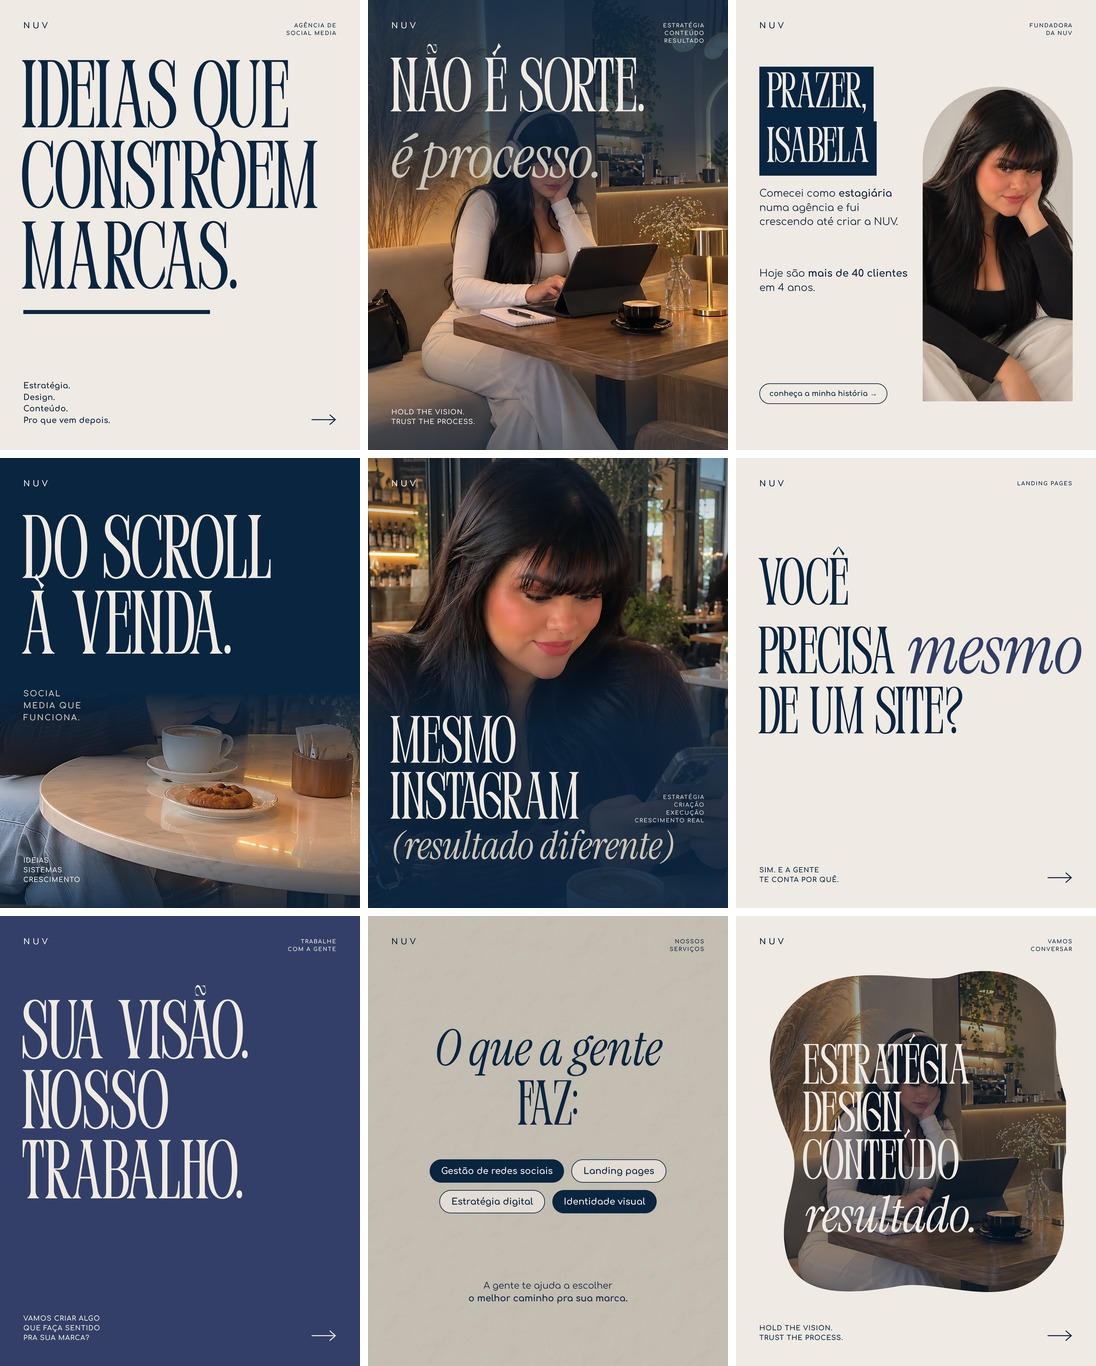
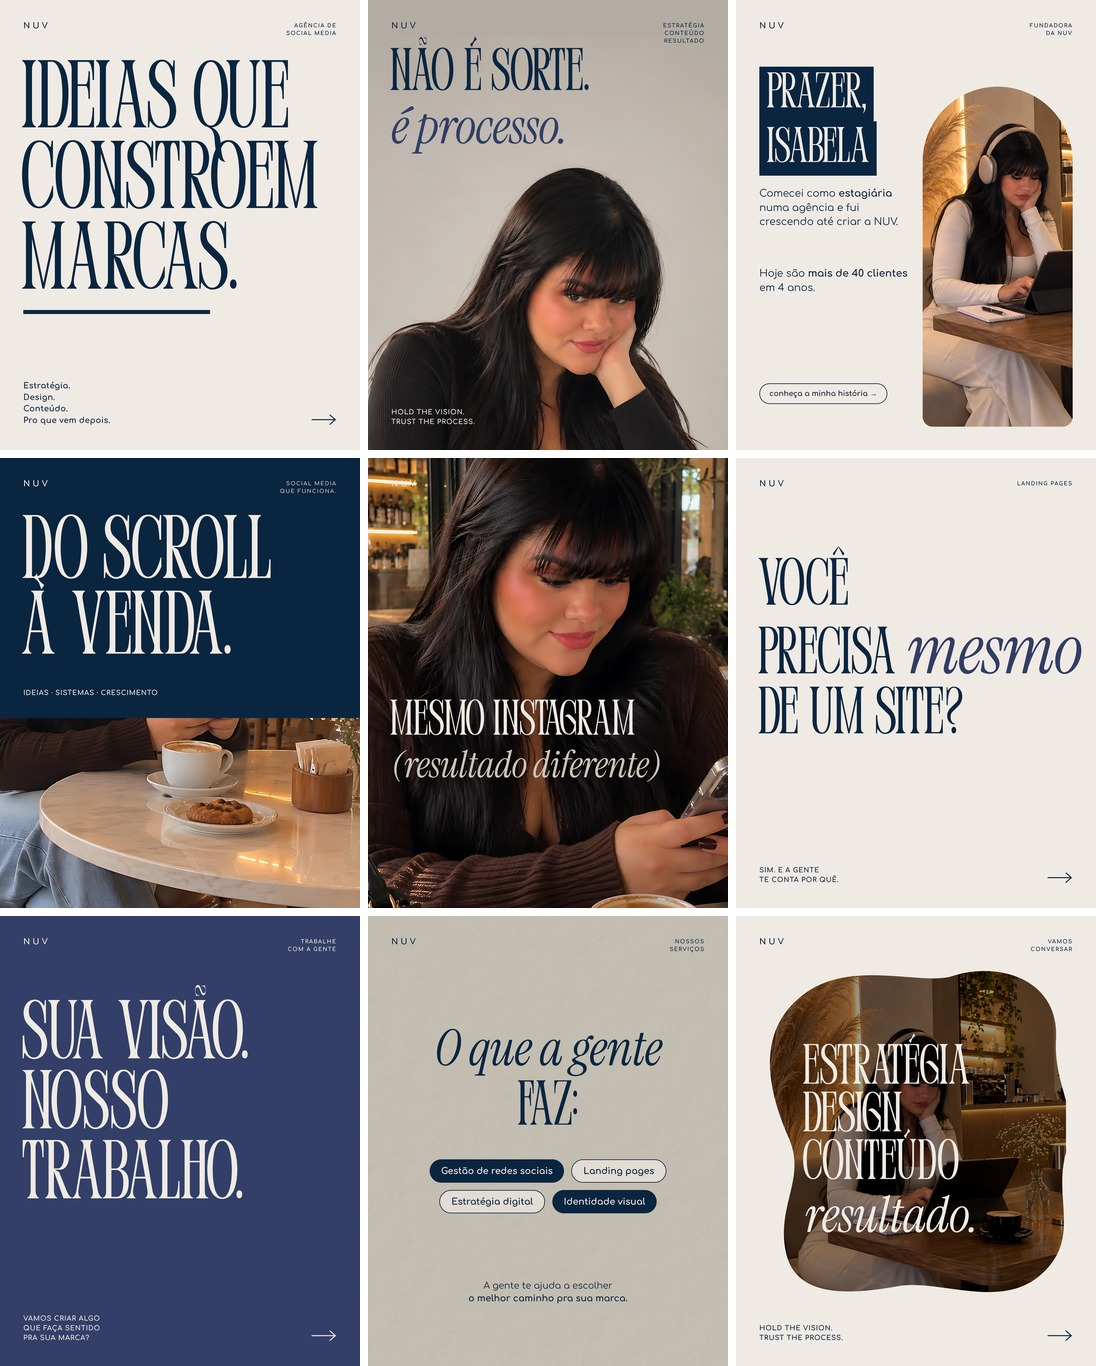
Feed kit: remove blue gradient overlays, place text on clean photo areas
Claude-Session: https://claude.ai/code/session_01EMPiZm8vwXxfPYZ7GnxN3Y

Changed region(s): [[0.0, 0.0, 0.6825, 0.6764], [0.6825, 0.7072, 0.9927, 0.9531], [0.8376, 0.0615, 0.9927, 0.3382]]

diff --git a/nuv-kit-feed/index.html b/nuv-kit-feed/index.html
@@ -58,7 +58,6 @@ const crop = (key, sx, sy, sw, w, h, extra = '') => {
   return `<div class="ph" style="left:0;top:0;width:${w}px;height:${h}px;background-image:url(${src});background-size:${iw * k}px auto;background-position:${-sx * k}px ${-sy * k}px;${extra}"></div>`;
 };
 const box = (x, y, w, h, inner, extra = '') => `<div class="abs" style="left:${x}px;top:${y}px;width:${w}px;height:${h}px;overflow:hidden;${extra}">${inner}</div>`;
-const grad = g => `<div class="fade" style="top:0;bottom:0;background:linear-gradient(180deg,${g})"></div>`;
 const GRAIN = o => `<svg class="abs" style="left:0;top:0;opacity:${o};mix-blend-mode:overlay;pointer-events:none" width="1080" height="1350"><rect width="100%" height="100%" filter="url(#grain)"/></svg>`;
 const ARROW = c => `<svg class="arrow" width="76" height="34" viewBox="0 0 76 34"><path d="M2 17h70M56 3l16 14-16 14" fill="none" stroke="${c}" stroke-width="3" stroke-linecap="round" stroke-linejoin="round"/></svg>`;
 const BRAND = c => `<div class="brand" style="color:${c}">NUV</div>`;
@@ -73,17 +72,17 @@ const POSTS = {
     <div class="abs" style="left:70px;top:930px;width:560px;height:12px;background:${C.navy}"></div>
     ${FOOT('Estratégia.<br>Design.<br>Conteúdo.<br>Pro que vem depois.', C.navy, 'text-transform:none;letter-spacing:.02em;font-size:24px')}${ARROW(C.navy)}`,
 
-  // 2 · foto quente + frase grande em branco
-  '02_nao_e_sorte_e_processo': `${box(0, 0, 1080, 1350, crop('tablet', 0, 0, 1122, 1080, 1350))}
-    ${grad('rgba(10,37,64,.88) 0%,rgba(10,37,64,.7) 30%,rgba(10,37,64,.05) 52%,rgba(10,37,64,0) 70%,rgba(10,37,64,.55) 100%')}
-    ${GRAIN(.18)}${BRAND(C.off)}${LAB('estratégia<br>conteúdo<br>resultado', C.off)}
-    <div class="abs H" style="left:66px;top:180px;font-size:230px;color:${C.off}">Não é sorte.</div>
-    <div class="abs I" style="left:70px;top:390px;font-size:180px;color:${C.beige}">é processo.</div>
+  // 2 · retrato no estúdio: texto azul direto na parede lisa (sem sombra/degradê)
+  '02_nao_e_sorte_e_processo': `<div class="abs" style="left:0;top:0;width:1080px;height:1350px;background:#b1aaa1"></div>
+    ${box(0, 110, 1080, 1240, crop('retrato', 0, 0, 941, 1080, 1240))}
+    ${GRAIN(.12)}${BRAND(C.navy)}${LAB('estratégia<br>conteúdo<br>resultado', C.navy)}
+    <div class="abs H" style="left:66px;top:150px;font-size:180px;color:${C.navy}">Não é sorte.</div>
+    <div class="abs I" style="left:70px;top:312px;font-size:150px;color:${C.indigo}">é processo.</div>
     ${FOOT('Hold the vision.<br>Trust the process.', C.off)}`,
 
   // 3 · "Prazer, Isabela" (blocos de marca-texto + retrato)
   '03_prazer_isabela': `<div class="abs" style="left:0;top:0;width:1080px;height:1350px;background:${C.off}"></div>
-    ${box(560, 260, 450, 1020, crop('retrato', 190, 330, 640, 450, 1020), 'border-radius:225px 225px 30px 30px')}
+    ${box(560, 260, 450, 1020, crop('tablet', 230, 200, 520, 450, 1020), 'border-radius:225px 225px 30px 30px')}
     ${BRAND(C.navy)}${LAB('fundadora<br>da nuv', C.navy)}
     <div class="abs H" style="left:70px;top:200px;font-size:150px;line-height:1.05"><span class="mk">Prazer,</span><br><span class="mk">Isabela</span></div>
     <div class="abs p" style="left:70px;top:560px;width:450px">Comecei como <b>estagiária</b> numa agência e fui crescendo até criar a NUV.</div>
@@ -92,21 +91,17 @@ const POSTS = {
 
   // 4 · azul sólido + foto entrando por baixo
   '04_do_scroll_a_venda': `<div class="abs" style="left:0;top:0;width:1080px;height:1350px;background:${C.navy}"></div>
-    ${box(0, 700, 1080, 650, crop('cafe', 300, 880, 641, 1080, 650))}
-    <div class="fade" style="top:700px;height:300px;background:linear-gradient(180deg,#0A2540,rgba(10,37,64,0))"></div>
-    <div class="fade" style="top:1150px;bottom:0;background:linear-gradient(180deg,rgba(10,37,64,0),rgba(10,37,64,.8))"></div>
+    ${box(0, 780, 1080, 570, crop('cafe', 300, 900, 641, 1080, 570))}
     ${BRAND(C.off)}
     <div class="abs H" style="left:66px;top:180px;font-size:270px;color:${C.off}">Do scroll<br>à venda.</div>
-    <div class="abs" style="left:70px;top:690px;color:${C.beige};font-weight:700;font-size:24px;letter-spacing:.12em;line-height:1.5;text-transform:uppercase">social<br>media que<br>funciona.</div>
-    ${FOOT('ideias<br>sistemas<br>crescimento', C.off)}`,
+    ${LAB('social media<br>que funciona.', C.beige)}
+    <div class="abs" style="left:70px;top:690px;color:${C.off};font-weight:700;font-size:20px;letter-spacing:.06em;line-height:1.45;text-transform:uppercase">ideias · sistemas · crescimento</div>`,
 
-  // 5 · retrato/close + manchete com parênteses em itálico
-  '05_mesmo_instagram_resultado_diferente': `${box(0, 0, 1080, 1350, crop('close', 40, 300, 880, 1080, 1350))}
-    ${grad('rgba(10,37,64,.4) 0%,rgba(10,37,64,0) 22%,rgba(10,37,64,0) 40%,rgba(10,37,64,.75) 60%,rgba(10,37,64,.92) 100%')}
-    ${GRAIN(.15)}${BRAND(C.off)}
-    <div class="abs H" style="left:66px;top:780px;font-size:200px;color:${C.off}">Mesmo<br>Instagram</div>
-    <div class="abs I" style="left:68px;top:1110px;font-size:118px;color:${C.beige}">(resultado diferente)</div>
-    <div class="lab" style="color:${C.off};top:auto;bottom:250px;opacity:.9">estratégia<br>criação<br>execução<br>crescimento real</div>`,
+  // 5 · close: texto direto sobre o suéter escuro (sem sombra/degradê)
+  '05_mesmo_instagram_resultado_diferente': `${box(0, 0, 1080, 1350, crop('close', 60, 380, 760, 1080, 1350, 'filter:brightness(.94) contrast(1.04)'))}
+    ${GRAIN(.12)}${BRAND(C.off)}
+    <div class="abs H" style="left:66px;top:730px;font-size:150px;color:${C.off}">Mesmo Instagram</div>
+    <div class="abs I" style="left:70px;top:870px;font-size:112px;color:${C.beige}">(resultado diferente)</div>`,
 
   // 6 · pergunta grande com itálico no meio
   '06_precisa_mesmo_de_um_site': `${BRAND(C.navy)}${LAB('landing pages', C.navy)}
@@ -131,8 +126,8 @@ const POSTS = {
 
   // 9 · foto recortada em forma orgânica (nuvem)
   '09_estrategia_design_conteudo': `${BRAND(C.navy)}${LAB('vamos<br>conversar', C.navy)}
-    <div class="abs" style="left:90px;top:150px;width:900px;height:980px;clip-path:path('${BLOB}')">${crop('tablet', 60, 120, 1000, 900, 980)}
-      <div class="abs" style="inset:0;background:rgba(10,37,64,.42)"></div></div>
+    <div class="abs" style="left:90px;top:150px;width:900px;height:980px;clip-path:path('${BLOB}')">${crop('tablet', 60, 120, 1000, 900, 980, 'filter:brightness(.58) contrast(1.08)')}
+      </div>
     <div class="abs H" style="left:200px;top:390px;font-size:170px;color:${C.off}">Estratégia<br>Design<br>Conteúdo</div>
     <div class="abs I" style="left:206px;top:830px;font-size:150px;color:${C.off}">resultado.</div>
     ${FOOT('Hold the vision.<br>Trust the process.', C.navy)}${ARROW(C.navy)}`,
